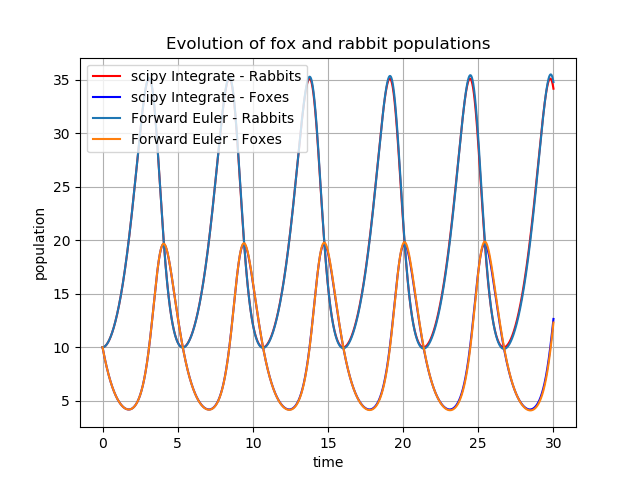
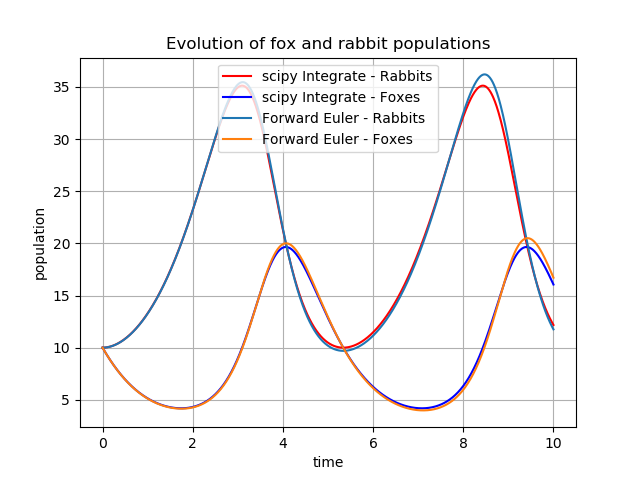
started PP eq

diff --git a/Python/b_lokta-voltera-forward-euler.py b/Python/b_lokta-voltera-forward-euler.py
@@ -43,8 +43,8 @@ b = 0.1
 c = 1.5
 d = 0.075
 
-T_start, T_end = 0.0, 30.0
-dt = 0.001
+T_start, T_end = 0.0, 10.0
+dt = 0.01
 
 def dX_dt(X, t=0):
     """ Return the growth rate of fox and rabbit populations. """
